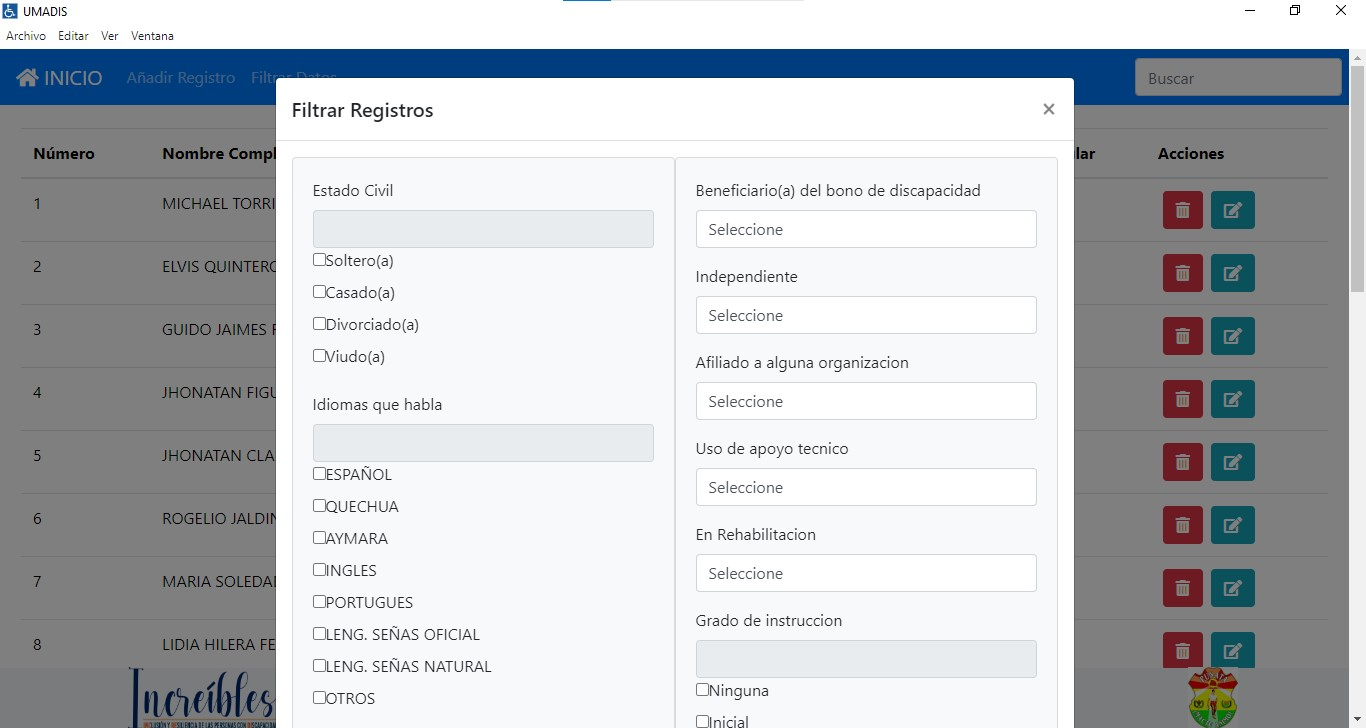
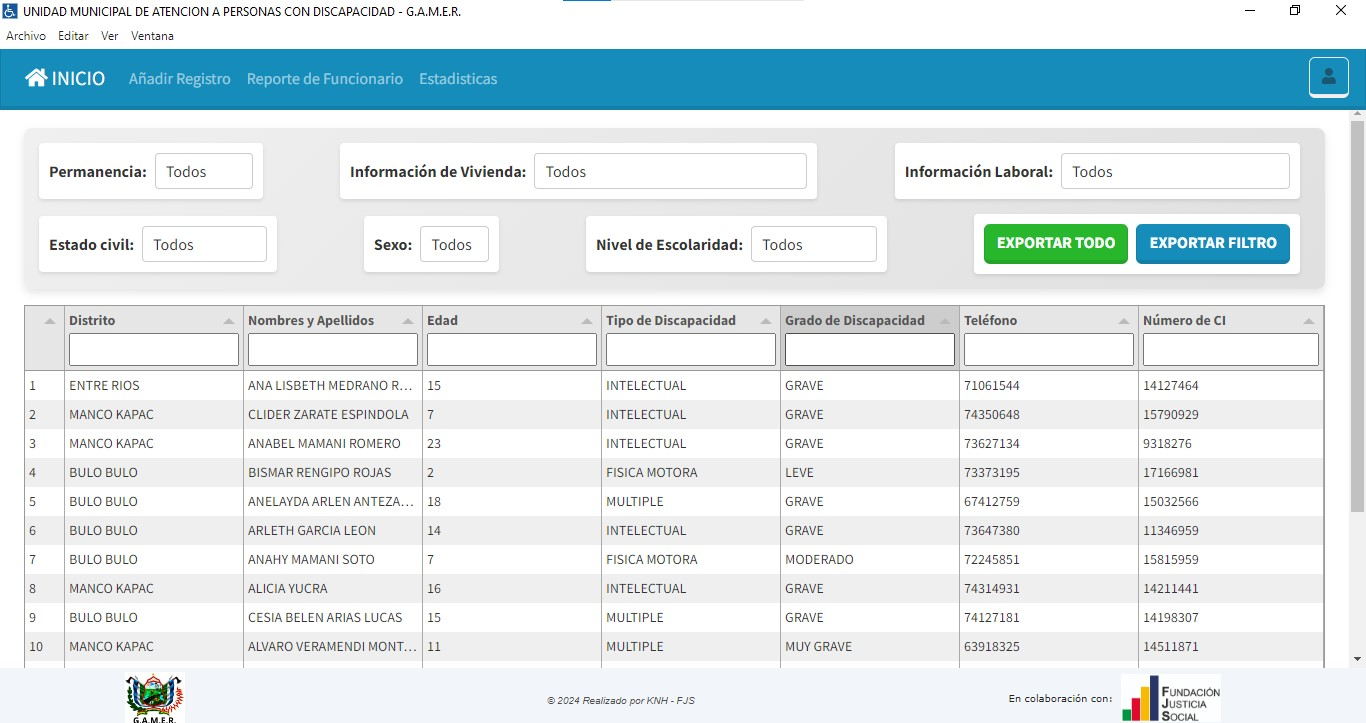
agrega estilos para botones deshabilitados y actualiza enlaces en el CV

diff --git a/index.html b/index.html
@@ -77,7 +77,7 @@
                 </div>
 
                 <div class="container_button">
-                    <a href="https://drive.google.com/file/d/1qsjO2WVlmsl4p6eRgoCTm7wLPuuYK0OK/view?usp=sharing" target="_blank">
+                    <a href="https://drive.google.com/file/d/1SgKXva2zT0UtKgToSH91AN2Dz_RG-doK/view?usp=sharing" target="_blank">
                         <button class="cv_button" data-section="home" data-value="cv_button">Descargar CV</button>
                     </a>
                     <a href="https://wa.me/59163527384" target="_blank">
@@ -209,7 +209,7 @@
                     <img class="logo-unal" src="./assets/images/logo-umss.png" alt="Logo - Universidad Mayor de San Simón">
                     <div class="container_texto--formacion">
                         <p data-section="formacion" data-value="formacion1">Ingenieria de Sistemas</p>
-                        <p data-section="formacion" data-value="tiempo-formacion1">2020 - En curso</p>
+                        <p data-section="formacion" data-value="tiempo-formacion1">2020 - 2024</p>
                     </div>
                 </div>
 
@@ -253,13 +253,13 @@
                     </div>
 
                     <div class="container_textCard--proyectos">
-                        <h2 data-section="proyectos" data-value="title-proyecto1">Sistema de Información para la UMADIS de Punata</h2>
-                        <p data-section="proyectos" data-value="info-proyecto1">Desarrollé un sistema de información para la UMADIS (Unidad Municipal de Atención a Personas con Discapacidad) del municipio de Punata, diseñado para almacenar, gestionar y analizar los datos de personas registradas. El sistema permite la captura eficiente de información personal, administración de los registros y la aplicación de filtros avanzados basados en diferentes características, como el tipo de discapacidad, grado de discapacidad, entre otros. Además, incluye un módulo para generar estadísticas y gráficos sobre los datos almacenados.</p>
+                        <h2 data-section="proyectos" data-value="title-proyecto1">Sistema de Información para U.M.A.D.I.S.</h2>
+                        <p data-section="proyectos" data-value="info-proyecto1">Desarrollé un sistema de información para la UMADIS (Unidad Municipal de Atención a Personas con Discapacidad) actualmente funcionando en tres municipios (Entre Rios, Tacopaya, Punata), diseñado para almacenar, gestionar y analizar los datos de personas registradas. El sistema permite la captura eficiente de información personal, administración de los registros y la aplicación de filtros avanzados basados en diferentes características. Además, incluye un módulo para generar estadísticas y gráficos sobre los datos almacenados, como también formularios y reportes de los registros para los funcionarios.</p>
                     </div>
 
                     <div class="container_btn--proyectos">
                         <a>
-                            <button class="btn_demo">
+                            <button class="btn_demo" disabled>
                                 <img src="./assets/images/icon-demoProyecto.png" alt="Demostración">VER
                             </button>
                         </a>
@@ -300,14 +300,8 @@
 
                     <div class="container_btn--proyectos">
                         <a>
-                            <button class="btn_demo">
+                            <button class="btn_demo" disabled>
                                 <img src="./assets/images/icon-demoProyecto.png" alt="Demostración">DEMO
-                            </button>
-                        </a>
-
-                        <a>
-                            <button class="btn_repo">
-                                <img src="./assets/images/icon-githubProyecto.png" alt="Repositorio de github">REPO
                             </button>
                         </a>
                     </div>
@@ -325,14 +319,8 @@
 
                     <div class="container_btn--proyectos">
                         <a> 
-                            <button class="btn_demo">
+                            <button class="btn_demo" disabled>
                                 <img src="./assets/images/icon-demoProyecto.png" alt="Demostración">DEMO
-                            </button>
-                        </a>
-
-                        <a>
-                            <button class="btn_repo">
-                                <img src="./assets/images/icon-githubProyecto.png" alt="Repositorio de github">REPO
                             </button>
                         </a>
                     </div>

diff --git a/assets/stylesheet/desktop.css b/assets/stylesheet/desktop.css
@@ -381,8 +381,6 @@ div.btn {
     font-size: 1rem;
     border: none;
     border-radius: 4px;
-    cursor: pointer;
-    transition: background-color 0.3s;
 }
 
 .btn_demo img, .btn_repo img {
@@ -436,4 +434,9 @@ div.btn {
     width: 50%;
     margin: 0;
     padding: 4rem 3rem;
+}
+.btn_demo:disabled {
+    background-color: #ccc; /* Cambia el color de fondo */
+    cursor: not-allowed; /* Cambia el cursor para indicar que no es clicable */
+    opacity: 0.6; /* Reduce la opacidad */
 }

diff --git a/assets/stylesheet/tablet.css b/assets/stylesheet/tablet.css
@@ -92,3 +92,8 @@ nav.nav_menu.active {
     margin: 0 auto;
     width: 80%;
 }
+.btn_demo:disabled {
+    background-color: #ccc; /* Cambia el color de fondo */
+    cursor: not-allowed; /* Cambia el cursor para indicar que no es clicable */
+    opacity: 0.6; /* Reduce la opacidad */
+}

diff --git a/assets/stylesheet/index.css b/assets/stylesheet/index.css
@@ -987,3 +987,8 @@ footer {
         height: 6rem;
     }
 }
+.btn_demo:disabled {
+    background-color: #ccc; /* Cambia el color de fondo */
+    cursor: not-allowed; /* Cambia el cursor para indicar que no es clicable */
+    opacity: 0.6; /* Reduce la opacidad */
+}
